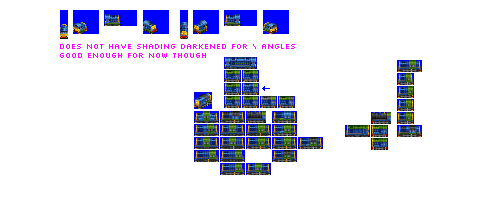
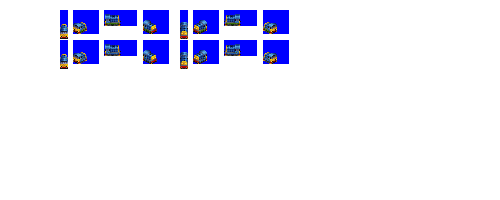
Change: additional banger blue livery for Magnum

Changed region(s): [[0.12, 0.18, 0.66, 0.9], [0.69, 0.3, 0.87, 0.75]]

diff --git a/src/vehicles/magnum_70.py b/src/vehicles/magnum_70.py
@@ -20,10 +20,8 @@ def main(roster_id):
         gen=6,
         intro_year_offset=-6,  # introduce earlier than gen epoch by design
         vehicle_life=60,  # extended vehicle life for all gronks eh
-        # banger blue?  some kind of industrial 'extra 'yellow'?
-        additional_liveries=[],
+        additional_liveries=["BANGER_BLUE"],
         sprites_complete=True,
-        sprites_additional_liveries_needed=True, # banger blue, yellow?
     )
 
     consist.add_unit(
